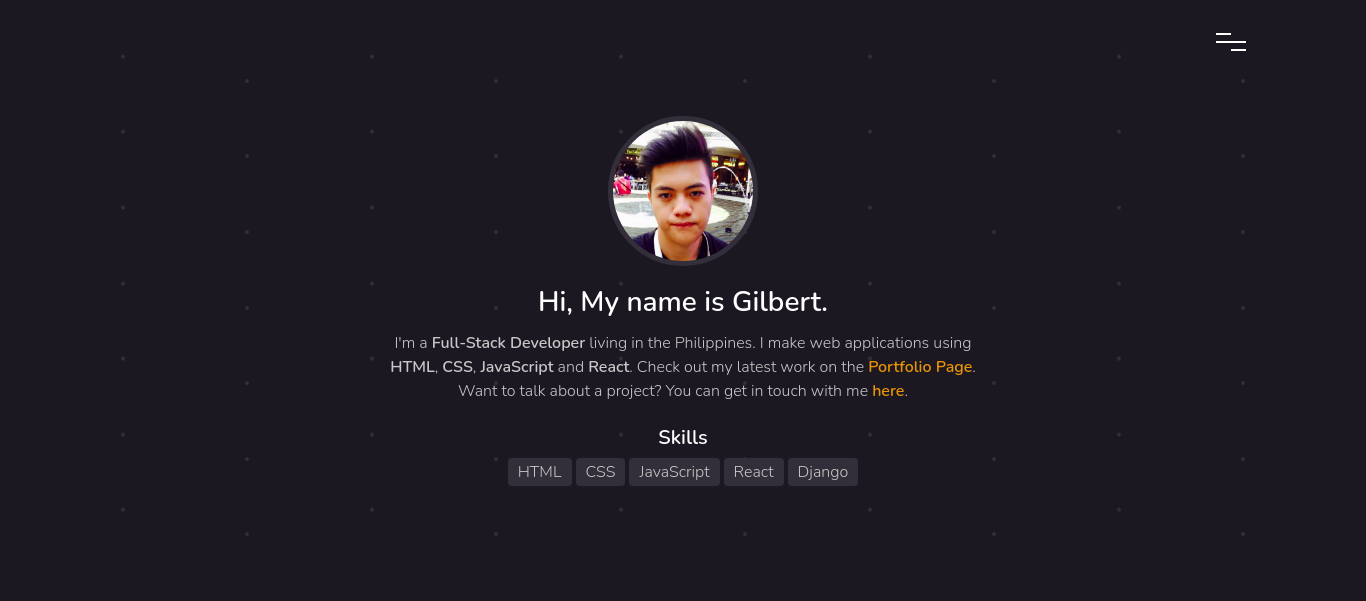
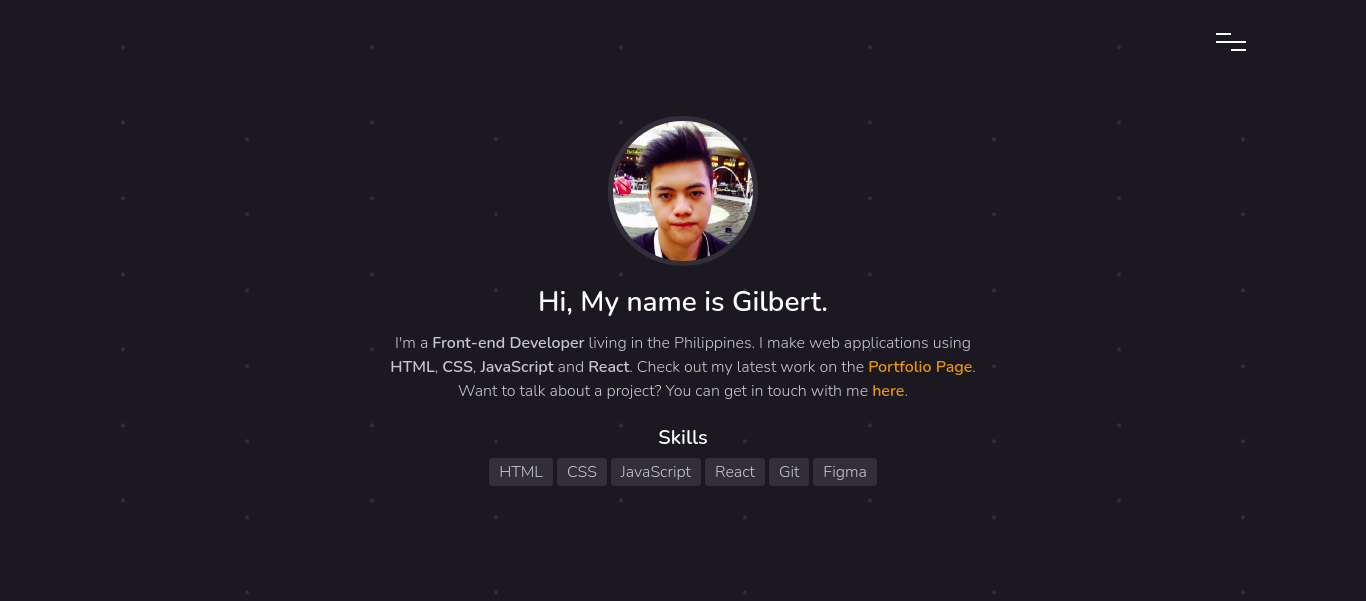
update skills and about

Changed region(s): [[0.3075, 0.5391, 0.7072, 0.599], [0.369, 0.7787, 0.6457, 0.8087]]

diff --git a/src/components/About.js b/src/components/About.js
@@ -41,7 +41,7 @@ class About extends React.Component {
             />
             <h1 className="about__heading">Hi, My name is Gilbert.</h1>
             <p>
-              I'm a <span className="text-bold">Full-Stack Developer</span>{" "}
+              I'm a <span className="text-bold">Front-end Developer</span>{" "}
               living in the Philippines. I make web applications using{" "}
               <span className="text-bold">HTML</span>,{" "}
               <span className="text-bold">CSS</span>,{" "}
@@ -71,8 +71,8 @@ class About extends React.Component {
                 <li className="skills__item">CSS</li>
                 <li className="skills__item">JavaScript</li>
                 <li className="skills__item">React</li>
-
-                <li className="skills__item">Django</li>
+                <li className="skills__item">Git</li>
+                <li className="skills__item">Figma</li>
               </ul>
             </div>
           </div>

diff --git a/public/index.html b/public/index.html
@@ -16,7 +16,7 @@
     />
 
     <title>
-      Web Developer Portfolio - HTML, CSS, JavaScript, React JS, Django
+      Front-end Developer Portfolio - HTML, CSS, JavaScript, React JS
     </title>
   </head>
   <body>
